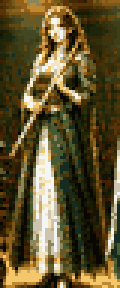
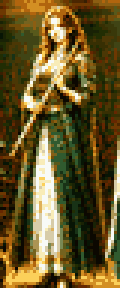
Boost maestro sprite color grade
Per feedback: saturation 1.75 -> 2.4, brightness 1.45 -> 1.55, contrast
1.25 -> 1.3. The sprites now read as vivid 16-bit color — glowing golds,
strong blues and greens — instead of muted stage lighting. Regenerated all
ten portraits and the contact sheet.

Claude-Session: https://claude.ai/code/session_015FEMCgxa3GK5RLf2FPiBDA

diff --git a/bandquest/scripts/make_portraits.py b/bandquest/scripts/make_portraits.py
@@ -53,9 +53,9 @@ COLORS = 28               # palette size after quantization
 SCALE = 3                 # nearest-neighbor upscale factor (output 120x288)
 
 # The lineup is lit like a dark stage; pull it up to bright 16-bit colors.
-BRIGHTNESS = 1.45
-SATURATION = 1.75
-CONTRAST = 1.25
+BRIGHTNESS = 1.55
+SATURATION = 2.4
+CONTRAST = 1.3
 
 
 def demake(img: Image.Image) -> Image.Image:
